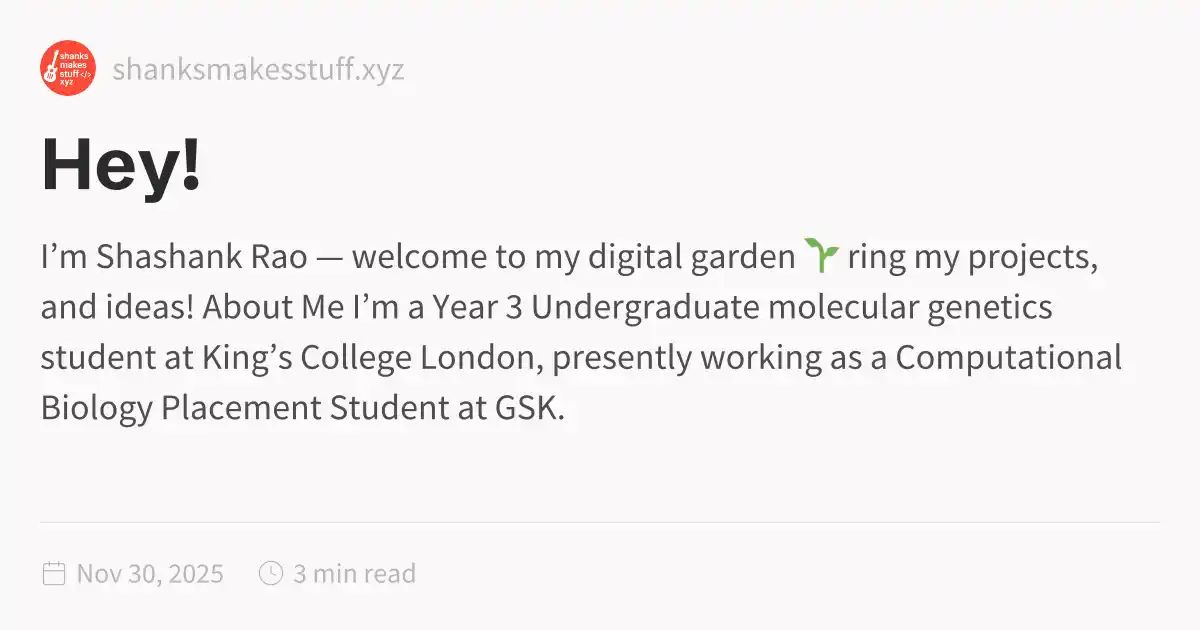
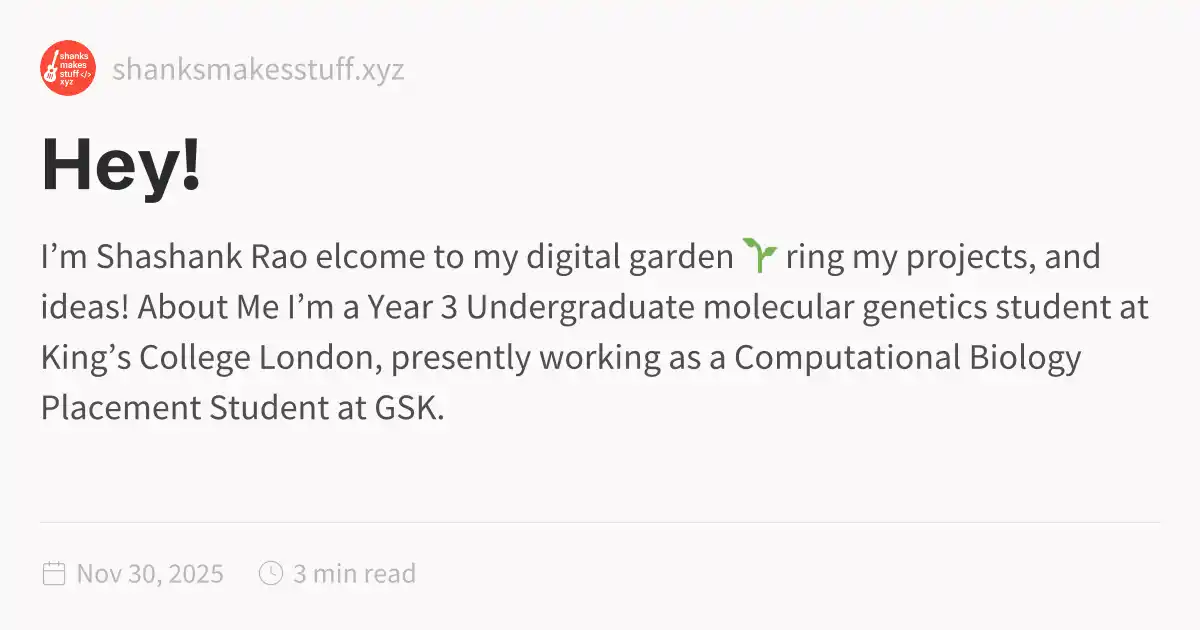
2025-11-30_1940

Changed region(s): [[0.0308, 0.3619, 0.9558, 0.5127], [0.0308, 0.5429, 0.9558, 0.6937]]

diff --git a/Hey!.html b/Hey!.html
@@ -1,5 +1,5 @@
 <!DOCTYPE html>
-<html lang="en"><head><title>Hey!</title><meta charset="utf-8"/><link rel="preconnect" href="https://fonts.googleapis.com"/><link rel="preconnect" href="https://fonts.gstatic.com"/><link rel="stylesheet" href="https://fonts.googleapis.com/css2?family=Schibsted Grotesk:wght@400;700&amp;family=Source Sans Pro:ital,wght@0,400;0,600;1,400;1,600&amp;family=IBM Plex Mono:wght@400;600&amp;display=swap"/><link rel="preconnect" href="https://cdnjs.cloudflare.com" crossorigin="anonymous"/><meta name="viewport" content="width=device-width, initial-scale=1.0"/><meta name="og:site_name" content="ShanksMakesStuff"/><meta property="og:title" content="Hey!"/><meta property="og:type" content="website"/><meta name="twitter:card" content="summary_large_image"/><meta name="twitter:title" content="Hey!"/><meta name="twitter:description" content="I’m Shashank Rao — welcome to my digital garden 🌱 ring my projects, and ideas! About Me I’m a Year 3 Undergraduate molecular genetics student at King’s College London, presently working as a Computational Biology Placement Student at GSK."/><meta property="og:description" content="I’m Shashank Rao — welcome to my digital garden 🌱 ring my projects, and ideas! About Me I’m a Year 3 Undergraduate molecular genetics student at King’s College London, presently working as a Computational Biology Placement Student at GSK."/><meta property="og:image:alt" content="I’m Shashank Rao — welcome to my digital garden 🌱 ring my projects, and ideas! About Me I’m a Year 3 Undergraduate molecular genetics student at King’s College London, presently working as a Computational Biology Placement Student at GSK."/><meta property="twitter:domain" content="shanksmakesstuff.xyz"/><meta property="og:url" content="https://shanksmakesstuff.xyz/Hey!"/><meta property="twitter:url" content="https://shanksmakesstuff.xyz/Hey!"/><link rel="icon" href="./static/icon.png"/><meta name="description" content="I’m Shashank Rao — welcome to my digital garden 🌱 ring my projects, and ideas! About Me I’m a Year 3 Undergraduate molecular genetics student at King’s College London, presently working as a Computational Biology Placement Student at GSK."/><meta name="generator" content="Quartz"/><link href="./index.css" rel="stylesheet" type="text/css" spa-preserve/><style>.expand-button {
+<html lang="en"><head><title>Hey!</title><meta charset="utf-8"/><link rel="preconnect" href="https://fonts.googleapis.com"/><link rel="preconnect" href="https://fonts.gstatic.com"/><link rel="stylesheet" href="https://fonts.googleapis.com/css2?family=Schibsted Grotesk:wght@400;700&amp;family=Source Sans Pro:ital,wght@0,400;0,600;1,400;1,600&amp;family=IBM Plex Mono:wght@400;600&amp;display=swap"/><link rel="preconnect" href="https://cdnjs.cloudflare.com" crossorigin="anonymous"/><meta name="viewport" content="width=device-width, initial-scale=1.0"/><meta name="og:site_name" content="ShanksMakesStuff"/><meta property="og:title" content="Hey!"/><meta property="og:type" content="website"/><meta name="twitter:card" content="summary_large_image"/><meta name="twitter:title" content="Hey!"/><meta name="twitter:description" content="I’m Shashank Rao elcome to my digital garden 🌱 ring my projects, and ideas! About Me I’m a Year 3 Undergraduate molecular genetics student at King’s College London, presently working as a Computational Biology Placement Student at GSK."/><meta property="og:description" content="I’m Shashank Rao elcome to my digital garden 🌱 ring my projects, and ideas! About Me I’m a Year 3 Undergraduate molecular genetics student at King’s College London, presently working as a Computational Biology Placement Student at GSK."/><meta property="og:image:alt" content="I’m Shashank Rao elcome to my digital garden 🌱 ring my projects, and ideas! About Me I’m a Year 3 Undergraduate molecular genetics student at King’s College London, presently working as a Computational Biology Placement Student at GSK."/><meta property="twitter:domain" content="shanksmakesstuff.xyz"/><meta property="og:url" content="https://shanksmakesstuff.xyz/Hey!"/><meta property="twitter:url" content="https://shanksmakesstuff.xyz/Hey!"/><link rel="icon" href="./static/icon.png"/><meta name="description" content="I’m Shashank Rao elcome to my digital garden 🌱 ring my projects, and ideas! About Me I’m a Year 3 Undergraduate molecular genetics student at King’s College London, presently working as a Computational Biology Placement Student at GSK."/><meta name="generator" content="Quartz"/><link href="./index.css" rel="stylesheet" type="text/css" spa-preserve/><style>.expand-button {
   position: absolute;
   display: flex;
   float: right;
@@ -116,7 +116,7 @@ pre:hover > .expand-button {
   padding: 0 12px;
   font-size: 14px;
 }
[2 lines of base64/hex data omitted]
 ring my projects, and ideas!
 <br/>
 <br/></p>
@@ -186,40 +186,40 @@ Medical Centre <br/> (~8 weeks)</p>
 <hr/>
 <h2 id="personal-projects">Personal Projects<a role="anchor" aria-hidden="true" tabindex="-1" data-no-popover="true" href="#personal-projects" class="internal"><svg width="18" height="18" viewBox="0 0 24 24" fill="none" stroke="currentColor" stroke-width="2" stroke-linecap="round" stroke-linejoin="round"><path d="M10 13a5 5 0 0 0 7.54.54l3-3a5 5 0 0 0-7.07-7.07l-1.72 1.71"></path><path d="M14 11a5 5 0 0 0-7.54-.54l-3 3a5 5 0 0 0 7.07 7.07l1.71-1.71"></path></svg></a></h2>
 <blockquote>
-<h2 id="tsuki-"><strong>Tsuki</strong> <br/><a role="anchor" aria-hidden="true" tabindex="-1" data-no-popover="true" href="#tsuki-" class="internal"><svg width="18" height="18" viewBox="0 0 24 24" fill="none" stroke="currentColor" stroke-width="2" stroke-linecap="round" stroke-linejoin="round"><path d="M10 13a5 5 0 0 0 7.54.54l3-3a5 5 0 0 0-7.07-7.07l-1.72 1.71"></path><path d="M14 11a5 5 0 0 0-7.54-.54l-3 3a5 5 0 0 0 7.07 7.07l1.71-1.71"></path></svg></a></h2>
+<h2 id="tsuki"><strong>Tsuki</strong><a role="anchor" aria-hidden="true" tabindex="-1" data-no-popover="true" href="#tsuki" class="internal"><svg width="18" height="18" viewBox="0 0 24 24" fill="none" stroke="currentColor" stroke-width="2" stroke-linecap="round" stroke-linejoin="round"><path d="M10 13a5 5 0 0 0 7.54.54l3-3a5 5 0 0 0-7.07-7.07l-1.72 1.71"></path><path d="M14 11a5 5 0 0 0-7.54-.54l-3 3a5 5 0 0 0 7.07 7.07l1.71-1.71"></path></svg></a></h2>
 <p>A free, open-source, minimalist task &amp; knowledge management app focussed at visualising task dependencies intuitively
 <a href="./Blog/Tsuki" class="internal alias" data-slug="Blog/Tsuki">Download</a></p>
 </blockquote>
 <hr/>
 <blockquote>
-<h2 id="gwasexplorercom"><strong>GWASExplorer.com</strong><br/><a role="anchor" aria-hidden="true" tabindex="-1" data-no-popover="true" href="#gwasexplorercom" class="internal"><svg width="18" height="18" viewBox="0 0 24 24" fill="none" stroke="currentColor" stroke-width="2" stroke-linecap="round" stroke-linejoin="round"><path d="M10 13a5 5 0 0 0 7.54.54l3-3a5 5 0 0 0-7.07-7.07l-1.72 1.71"></path><path d="M14 11a5 5 0 0 0-7.54-.54l-3 3a5 5 0 0 0 7.07 7.07l1.71-1.71"></path></svg></a></h2>
+<h2 id="gwasexplorercom"><strong>GWASExplorer.com</strong><a role="anchor" aria-hidden="true" tabindex="-1" data-no-popover="true" href="#gwasexplorercom" class="internal"><svg width="18" height="18" viewBox="0 0 24 24" fill="none" stroke="currentColor" stroke-width="2" stroke-linecap="round" stroke-linejoin="round"><path d="M10 13a5 5 0 0 0 7.54.54l3-3a5 5 0 0 0-7.07-7.07l-1.72 1.71"></path><path d="M14 11a5 5 0 0 0-7.54-.54l-3 3a5 5 0 0 0 7.07 7.07l1.71-1.71"></path></svg></a></h2>
 <p>A free, open-source, no-code browser-based GWAS summary statistics visualiser designed to adapt to your data’s format.
 ⚠ <em>Not affiliated with the GWAS Explorer by the NCI</em>
 <a href="https://www.gwasexplorer.com/" class="external">Go to GWASExplorer.com<svg aria-hidden="true" class="external-icon" style="max-width:0.8em;max-height:0.8em;" viewBox="0 0 512 512"><path d="M320 0H288V64h32 82.7L201.4 265.4 178.7 288 224 333.3l22.6-22.6L448 109.3V192v32h64V192 32 0H480 320zM32 32H0V64 480v32H32 456h32V480 352 320H424v32 96H64V96h96 32V32H160 32z"></path></svg></a></p>
 </blockquote>
 <hr/>
 <blockquote>
-<h2 id="think-pythonically-learn-python-the-better-way--"><strong>Think Pythonically: Learn Python the better way</strong>  <br/><a role="anchor" aria-hidden="true" tabindex="-1" data-no-popover="true" href="#think-pythonically-learn-python-the-better-way--" class="internal"><svg width="18" height="18" viewBox="0 0 24 24" fill="none" stroke="currentColor" stroke-width="2" stroke-linecap="round" stroke-linejoin="round"><path d="M10 13a5 5 0 0 0 7.54.54l3-3a5 5 0 0 0-7.07-7.07l-1.72 1.71"></path><path d="M14 11a5 5 0 0 0-7.54-.54l-3 3a5 5 0 0 0 7.07 7.07l1.71-1.71"></path></svg></a></h2>
+<h2 id="think-pythonically-learn-python-the-better-way"><strong>Think Pythonically: Learn Python the better way</strong><a role="anchor" aria-hidden="true" tabindex="-1" data-no-popover="true" href="#think-pythonically-learn-python-the-better-way" class="internal"><svg width="18" height="18" viewBox="0 0 24 24" fill="none" stroke="currentColor" stroke-width="2" stroke-linecap="round" stroke-linejoin="round"><path d="M10 13a5 5 0 0 0 7.54.54l3-3a5 5 0 0 0-7.07-7.07l-1.72 1.71"></path><path d="M14 11a5 5 0 0 0-7.54-.54l-3 3a5 5 0 0 0 7.07 7.07l1.71-1.71"></path></svg></a></h2>
 <p>A beginner’s guide that teaches you not just the syntax, but how to <em>think</em> like the Python interpreter. I detail the untaught rules of pythonic thinking – the things I learnt the hard way.
 Don’t just write Python, <em>Understand</em> it.
 <a href="https://shashankraocoding.github.io/thinkpythonically/" class="external">Read<svg aria-hidden="true" class="external-icon" style="max-width:0.8em;max-height:0.8em;" viewBox="0 0 512 512"><path d="M320 0H288V64h32 82.7L201.4 265.4 178.7 288 224 333.3l22.6-22.6L448 109.3V192v32h64V192 32 0H480 320zM32 32H0V64 480v32H32 456h32V480 352 320H424v32 96H64V96h96 32V32H160 32z"></path></svg></a></p>
 </blockquote>
 <hr/>
 <blockquote>
-<h2 id="ideate2d-make-games-in-python--visually-and-intuitively-"><strong>Ideate2D: Make games in Python — visually and intuitively</strong> <br/><a role="anchor" aria-hidden="true" tabindex="-1" data-no-popover="true" href="#ideate2d-make-games-in-python--visually-and-intuitively-" class="internal"><svg width="18" height="18" viewBox="0 0 24 24" fill="none" stroke="currentColor" stroke-width="2" stroke-linecap="round" stroke-linejoin="round"><path d="M10 13a5 5 0 0 0 7.54.54l3-3a5 5 0 0 0-7.07-7.07l-1.72 1.71"></path><path d="M14 11a5 5 0 0 0-7.54-.54l-3 3a5 5 0 0 0 7.07 7.07l1.71-1.71"></path></svg></a></h2>
+<h2 id="ideate2d-make-games-in-python--visually-and-intuitively"><strong>Ideate2D: Make games in Python — visually and intuitively</strong><a role="anchor" aria-hidden="true" tabindex="-1" data-no-popover="true" href="#ideate2d-make-games-in-python--visually-and-intuitively" class="internal"><svg width="18" height="18" viewBox="0 0 24 24" fill="none" stroke="currentColor" stroke-width="2" stroke-linecap="round" stroke-linejoin="round"><path d="M10 13a5 5 0 0 0 7.54.54l3-3a5 5 0 0 0-7.07-7.07l-1.72 1.71"></path><path d="M14 11a5 5 0 0 0-7.54-.54l-3 3a5 5 0 0 0 7.07 7.07l1.71-1.71"></path></svg></a></h2>
 <p>Ideate2D is a WYSIWYG 2D game engine built on PyGame. By utilising an intuitive drag-and-drop scene editor, and generating python code that has been designed for customisation, Ideate2D provides the perfect blend of accessibility without sacrificing flexibility.
 <a href="https://shashankraocoding.github.io/Ideate2D/Ideate2D.html" class="external">Download<svg aria-hidden="true" class="external-icon" style="max-width:0.8em;max-height:0.8em;" viewBox="0 0 512 512"><path d="M320 0H288V64h32 82.7L201.4 265.4 178.7 288 224 333.3l22.6-22.6L448 109.3V192v32h64V192 32 0H480 320zM32 32H0V64 480v32H32 456h32V480 352 320H424v32 96H64V96h96 32V32H160 32z"></path></svg></a></p>
 </blockquote>
 <hr/>
 <blockquote>
-<h2 id="theory-zero"><strong>Theory Zero</strong><br/><a role="anchor" aria-hidden="true" tabindex="-1" data-no-popover="true" href="#theory-zero" class="internal"><svg width="18" height="18" viewBox="0 0 24 24" fill="none" stroke="currentColor" stroke-width="2" stroke-linecap="round" stroke-linejoin="round"><path d="M10 13a5 5 0 0 0 7.54.54l3-3a5 5 0 0 0-7.07-7.07l-1.72 1.71"></path><path d="M14 11a5 5 0 0 0-7.54-.54l-3 3a5 5 0 0 0 7.07 7.07l1.71-1.71"></path></svg></a></h2>
+<h2 id="theory-zero"><strong>Theory Zero</strong><a role="anchor" aria-hidden="true" tabindex="-1" data-no-popover="true" href="#theory-zero" class="internal"><svg width="18" height="18" viewBox="0 0 24 24" fill="none" stroke="currentColor" stroke-width="2" stroke-linecap="round" stroke-linejoin="round"><path d="M10 13a5 5 0 0 0 7.54.54l3-3a5 5 0 0 0-7.07-7.07l-1.72 1.71"></path><path d="M14 11a5 5 0 0 0-7.54-.54l-3 3a5 5 0 0 0 7.07 7.07l1.71-1.71"></path></svg></a></h2>
 <p>A work-in-progress free novelette weaving together biology, history, and social contract theory to rationalise societal behaviours in a single, elegant framework
 Formerly ‘Into the Mind’ (working title)
 <a href="https://shashankraocoding.github.io/Theory-Zero/" class="external">Read<svg aria-hidden="true" class="external-icon" style="max-width:0.8em;max-height:0.8em;" viewBox="0 0 512 512"><path d="M320 0H288V64h32 82.7L201.4 265.4 178.7 288 224 333.3l22.6-22.6L448 109.3V192v32h64V192 32 0H480 320zM32 32H0V64 480v32H32 456h32V480 352 320H424v32 96H64V96h96 32V32H160 32z"></path></svg></a></p>
 </blockquote>
 <hr/>
 <blockquote>
-<h2 id="chirp-"><strong>Chirp</strong> <br/><a role="anchor" aria-hidden="true" tabindex="-1" data-no-popover="true" href="#chirp-" class="internal"><svg width="18" height="18" viewBox="0 0 24 24" fill="none" stroke="currentColor" stroke-width="2" stroke-linecap="round" stroke-linejoin="round"><path d="M10 13a5 5 0 0 0 7.54.54l3-3a5 5 0 0 0-7.07-7.07l-1.72 1.71"></path><path d="M14 11a5 5 0 0 0-7.54-.54l-3 3a5 5 0 0 0 7.07 7.07l1.71-1.71"></path></svg></a></h2>
+<h2 id="chirp"><strong>Chirp</strong><a role="anchor" aria-hidden="true" tabindex="-1" data-no-popover="true" href="#chirp" class="internal"><svg width="18" height="18" viewBox="0 0 24 24" fill="none" stroke="currentColor" stroke-width="2" stroke-linecap="round" stroke-linejoin="round"><path d="M10 13a5 5 0 0 0 7.54.54l3-3a5 5 0 0 0-7.07-7.07l-1.72 1.71"></path><path d="M14 11a5 5 0 0 0-7.54-.54l-3 3a5 5 0 0 0 7.07 7.07l1.71-1.71"></path></svg></a></h2>
 <p>AI Interface that overlays onto screen seamlessly, appearing and disappearing as you need it
 Uses local LLMs with Ollama, ensuring privacy and convenience
 <a href="https://shashankraocoding.github.io/Chirp/Chirp.html" class="external">Download<svg aria-hidden="true" class="external-icon" style="max-width:0.8em;max-height:0.8em;" viewBox="0 0 512 512"><path d="M320 0H288V64h32 82.7L201.4 265.4 178.7 288 224 333.3l22.6-22.6L448 109.3V192v32h64V192 32 0H480 320zM32 32H0V64 480v32H32 456h32V480 352 320H424v32 96H64V96h96 32V32H160 32z"></path></svg></a></p>
@@ -227,6 +227,6 @@ Uses local LLMs with Ollama, ensuring privacy and convenience
 <hr/>
 <h2 id="want-to-collaborate">Want to Collaborate?<a role="anchor" aria-hidden="true" tabindex="-1" data-no-popover="true" href="#want-to-collaborate" class="internal"><svg width="18" height="18" viewBox="0 0 24 24" fill="none" stroke="currentColor" stroke-width="2" stroke-linecap="round" stroke-linejoin="round"><path d="M10 13a5 5 0 0 0 7.54.54l3-3a5 5 0 0 0-7.07-7.07l-1.72 1.71"></path><path d="M14 11a5 5 0 0 0-7.54-.54l-3 3a5 5 0 0 0 7.07 7.07l1.71-1.71"></path></svg></a></h2>
 <p>If you’re into weird interdisciplinary ideas, or just want to say hi, <a href="mailto:shashank.jrao@outlook.com" class="external">get in touch<svg aria-hidden="true" class="external-icon" style="max-width:0.8em;max-height:0.8em;" viewBox="0 0 512 512"><path d="M320 0H288V64h32 82.7L201.4 265.4 178.7 288 224 333.3l22.6-22.6L448 109.3V192v32h64V192 32 0H480 320zM32 32H0V64 480v32H32 456h32V480 352 320H424v32 96H64V96h96 32V32H160 32z"></path></svg></a> — or check out <a href="https://github.com/ShashankRaoCoding" class="external">my GitHub<svg aria-hidden="true" class="external-icon" style="max-width:0.8em;max-height:0.8em;" viewBox="0 0 512 512"><path d="M320 0H288V64h32 82.7L201.4 265.4 178.7 288 224 333.3l22.6-22.6L448 109.3V192v32h64V192 32 0H480 320zM32 32H0V64 480v32H32 456h32V480 352 320H424v32 96H64V96h96 32V32H160 32z"></path></svg></a>!</p>
-<hr/></article><hr/><div class="page-footer"></div></div><div class="right sidebar"><div class="toc"><button type="button" class="toc-header" aria-controls="toc-content" aria-expanded="true"><h3>Table of Contents</h3><svg xmlns="http://www.w3.org/2000/svg" width="24" height="24" viewBox="0 0 24 24" fill="none" stroke="currentColor" stroke-width="2" stroke-linecap="round" stroke-linejoin="round" class="fold"><polyline points="6 9 12 15 18 9"></polyline></svg></button><ul class="toc-content overflow" id="list-1"><li class="depth-0"><a href="#about-me" data-for="about-me">About Me</a></li><li class="depth-0"><a href="#work-experience" data-for="work-experience">Work Experience</a></li><li class="depth-0"><a href="#personal-projects" data-for="personal-projects">Personal Projects</a></li><li class="depth-0"><a href="#tsuki-br" data-for="tsuki-br">Tsuki &lt;br></a></li><li class="depth-0"><a href="#gwasexplorercombr" data-for="gwasexplorercombr">GWASExplorer.com&lt;br></a></li><li class="depth-0"><a href="#think-pythonically-learn-python-the-better-way--br" data-for="think-pythonically-learn-python-the-better-way--br">Think Pythonically: Learn Python the better way  &lt;br></a></li><li class="depth-0"><a href="#ideate2d-make-games-in-python--visually-and-intuitively-br" data-for="ideate2d-make-games-in-python--visually-and-intuitively-br">Ideate2D: Make games in Python — visually and intuitively &lt;br></a></li><li class="depth-0"><a href="#theory-zerobr" data-for="theory-zerobr">Theory Zero&lt;br></a></li><li class="depth-0"><a href="#chirp-br" data-for="chirp-br">Chirp &lt;br></a></li><li class="depth-0"><a href="#want-to-collaborate" data-for="want-to-collaborate">Want to Collaborate?</a></li><li class="overflow-end"></li></ul></div></div><footer class><p>Created with <a href="https://quartz.jzhao.xyz/">Quartz v4.5.1</a> © 2025</p><ul><li><a href="www.github.com/ShashankRaoCoding/">GitHub</a></li></ul></footer></div></div></body><script type="application/javascript">function n(){let t=this.parentElement;t.classList.toggle("is-collapsed");let e=t.getElementsByClassName("callout-content")[0];if(!e)return;let l=t.classList.contains("is-collapsed");e.style.gridTemplateRows=l?"0fr":"1fr"}function c(){let t=document.getElementsByClassName("callout is-collapsible");for(let e of t){let l=e.getElementsByClassName("callout-title")[0],s=e.getElementsByClassName("callout-content")[0];if(!l||!s)continue;l.addEventListener("click",n),window.addCleanup(()=>l.removeEventListener("click",n));let o=e.classList.contains("is-collapsed");s.style.gridTemplateRows=o?"0fr":"1fr"}}document.addEventListener("nav",c);
+<hr/></article><hr/><div class="page-footer"></div></div><div class="right sidebar"><div class="toc"><button type="button" class="toc-header" aria-controls="toc-content" aria-expanded="true"><h3>Table of Contents</h3><svg xmlns="http://www.w3.org/2000/svg" width="24" height="24" viewBox="0 0 24 24" fill="none" stroke="currentColor" stroke-width="2" stroke-linecap="round" stroke-linejoin="round" class="fold"><polyline points="6 9 12 15 18 9"></polyline></svg></button><ul class="toc-content overflow" id="list-1"><li class="depth-0"><a href="#about-me" data-for="about-me">About Me</a></li><li class="depth-0"><a href="#work-experience" data-for="work-experience">Work Experience</a></li><li class="depth-0"><a href="#personal-projects" data-for="personal-projects">Personal Projects</a></li><li class="depth-0"><a href="#tsuki" data-for="tsuki">Tsuki</a></li><li class="depth-0"><a href="#gwasexplorercom" data-for="gwasexplorercom">GWASExplorer.com</a></li><li class="depth-0"><a href="#think-pythonically-learn-python-the-better-way" data-for="think-pythonically-learn-python-the-better-way">Think Pythonically: Learn Python the better way</a></li><li class="depth-0"><a href="#ideate2d-make-games-in-python--visually-and-intuitively" data-for="ideate2d-make-games-in-python--visually-and-intuitively">Ideate2D: Make games in Python — visually and intuitively</a></li><li class="depth-0"><a href="#theory-zero" data-for="theory-zero">Theory Zero</a></li><li class="depth-0"><a href="#chirp" data-for="chirp">Chirp</a></li><li class="depth-0"><a href="#want-to-collaborate" data-for="want-to-collaborate">Want to Collaborate?</a></li><li class="overflow-end"></li></ul></div></div><footer class><p>Created with <a href="https://quartz.jzhao.xyz/">Quartz v4.5.1</a> © 2025</p><ul><li><a href="www.github.com/ShashankRaoCoding/">GitHub</a></li></ul></footer></div></div></body><script type="application/javascript">function n(){let t=this.parentElement;t.classList.toggle("is-collapsed");let e=t.getElementsByClassName("callout-content")[0];if(!e)return;let l=t.classList.contains("is-collapsed");e.style.gridTemplateRows=l?"0fr":"1fr"}function c(){let t=document.getElementsByClassName("callout is-collapsible");for(let e of t){let l=e.getElementsByClassName("callout-title")[0],s=e.getElementsByClassName("callout-content")[0];if(!l||!s)continue;l.addEventListener("click",n),window.addCleanup(()=>l.removeEventListener("click",n));let o=e.classList.contains("is-collapsed");s.style.gridTemplateRows=o?"0fr":"1fr"}}document.addEventListener("nav",c);
 </script><script type="module">function f(i,e){if(!i)return;function r(o){o.target===this&&(o.preventDefault(),o.stopPropagation(),e())}function t(o){o.key.startsWith("Esc")&&(o.preventDefault(),e())}i?.addEventListener("click",r),window.addCleanup(()=>i?.removeEventListener("click",r)),document.addEventListener("keydown",t),window.addCleanup(()=>document.removeEventListener("keydown",t))}function y(i){for(;i.firstChild;)i.removeChild(i.firstChild)}var h=class{constructor(e,r){this.container=e;this.content=r;this.setupEventListeners(),this.setupNavigationControls(),this.resetTransform()}isDragging=!1;startPan={x:0,y:0};currentPan={x:0,y:0};scale=1;MIN_SCALE=.5;MAX_SCALE=3;cleanups=[];setupEventListeners(){let e=this.onMouseDown.bind(this),r=this.onMouseMove.bind(this),t=this.onMouseUp.bind(this),o=this.resetTransform.bind(this);this.container.addEventListener("mousedown",e),document.addEventListener("mousemove",r),document.addEventListener("mouseup",t),window.addEventListener("resize",o),this.cleanups.push(()=>this.container.removeEventListener("mousedown",e),()=>document.removeEventListener("mousemove",r),()=>document.removeEventListener("mouseup",t),()=>window.removeEventListener("resize",o))}cleanup(){for(let e of this.cleanups)e()}setupNavigationControls(){let e=document.createElement("div");e.className="mermaid-controls";let r=this.createButton("+",()=>this.zoom(.1)),t=this.createButton("-",()=>this.zoom(-.1)),o=this.createButton("Reset",()=>this.resetTransform());e.appendChild(t),e.appendChild(o),e.appendChild(r),this.container.appendChild(e)}createButton(e,r){let t=document.createElement("button");return t.textContent=e,t.className="mermaid-control-button",t.addEventListener("click",r),window.addCleanup(()=>t.removeEventListener("click",r)),t}onMouseDown(e){e.button===0&&(this.isDragging=!0,this.startPan={x:e.clientX-this.currentPan.x,y:e.clientY-this.currentPan.y},this.container.style.cursor="grabbing")}onMouseMove(e){this.isDragging&&(e.preventDefault(),this.currentPan={x:e.clientX-this.startPan.x,y:e.clientY-this.startPan.y},this.updateTransform())}onMouseUp(){this.isDragging=!1,this.container.style.cursor="grab"}zoom(e){let r=Math.min(Math.max(this.scale+e,this.MIN_SCALE),this.MAX_SCALE),t=this.content.getBoundingClientRect(),o=t.width/2,n=t.height/2,c=r-this.scale;this.currentPan.x-=o*c,this.currentPan.y-=n*c,this.scale=r,this.updateTransform()}updateTransform(){this.content.style.transform=`translate(${this.currentPan.x}px, ${this.currentPan.y}px) scale(${this.scale})`}resetTransform(){this.scale=1;let e=this.content.querySelector("svg");this.currentPan={x:e.getBoundingClientRect().width/2,y:e.getBoundingClientRect().height/2},this.updateTransform()}},C=["--secondary","--tertiary","--gray","--light","--lightgray","--highlight","--dark","--darkgray","--codeFont"],E;document.addEventListener("nav",async()=>{let e=document.querySelector(".center").querySelectorAll("code.mermaid");if(e.length===0)return;E||=await import("https://cdnjs.cloudflare.com/ajax/libs/mermaid/11.4.0/mermaid.esm.min.mjs");let r=E.default,t=new WeakMap;for(let n of e)t.set(n,n.innerText);async function o(){for(let s of e){s.removeAttribute("data-processed");let a=t.get(s);a&&(s.innerHTML=a)}let n=C.reduce((s,a)=>(s[a]=window.getComputedStyle(document.documentElement).getPropertyValue(a),s),{}),c=document.documentElement.getAttribute("saved-theme")==="dark";r.initialize({startOnLoad:!1,securityLevel:"loose",theme:c?"dark":"base",themeVariables:{fontFamily:n["--codeFont"],primaryColor:n["--light"],primaryTextColor:n["--darkgray"],primaryBorderColor:n["--tertiary"],lineColor:n["--darkgray"],secondaryColor:n["--secondary"],tertiaryColor:n["--tertiary"],clusterBkg:n["--light"],edgeLabelBackground:n["--highlight"]}}),await r.run({nodes:e})}await o(),document.addEventListener("themechange",o),window.addCleanup(()=>document.removeEventListener("themechange",o));for(let n=0;n<e.length;n++){let v=function(){let g=l.querySelector("#mermaid-space"),m=l.querySelector(".mermaid-content");if(!m)return;y(m);let w=c.querySelector("svg").cloneNode(!0);m.appendChild(w),l.classList.add("active"),g.style.cursor="grab",u=new h(g,m)},M=function(){l.classList.remove("active"),u?.cleanup(),u=null},c=e[n],s=c.parentElement,a=s.querySelector(".clipboard-button"),d=s.querySelector(".expand-button"),p=window.getComputedStyle(a),L=a.offsetWidth+parseFloat(p.marginLeft||"0")+parseFloat(p.marginRight||"0");d.style.right=`calc(${L}px + 0.3rem)`,s.prepend(d);let l=s.querySelector("#mermaid-container");if(!l)return;let u=null;d.addEventListener("click",v),f(l,M),window.addCleanup(()=>{u?.cleanup(),d.removeEventListener("click",v)})}});
 </script><script src="https://cdn.jsdelivr.net/npm/katex@0.16.11/dist/contrib/copy-tex.min.js" type="application/javascript"></script><script src="./postscript.js" type="module"></script></html>
